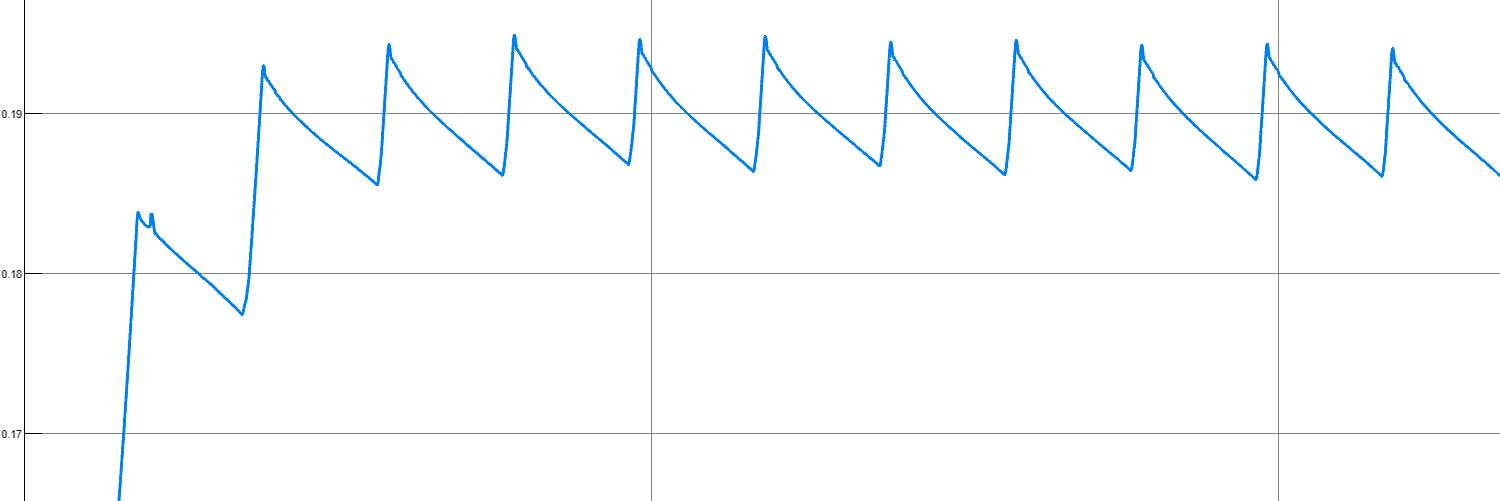
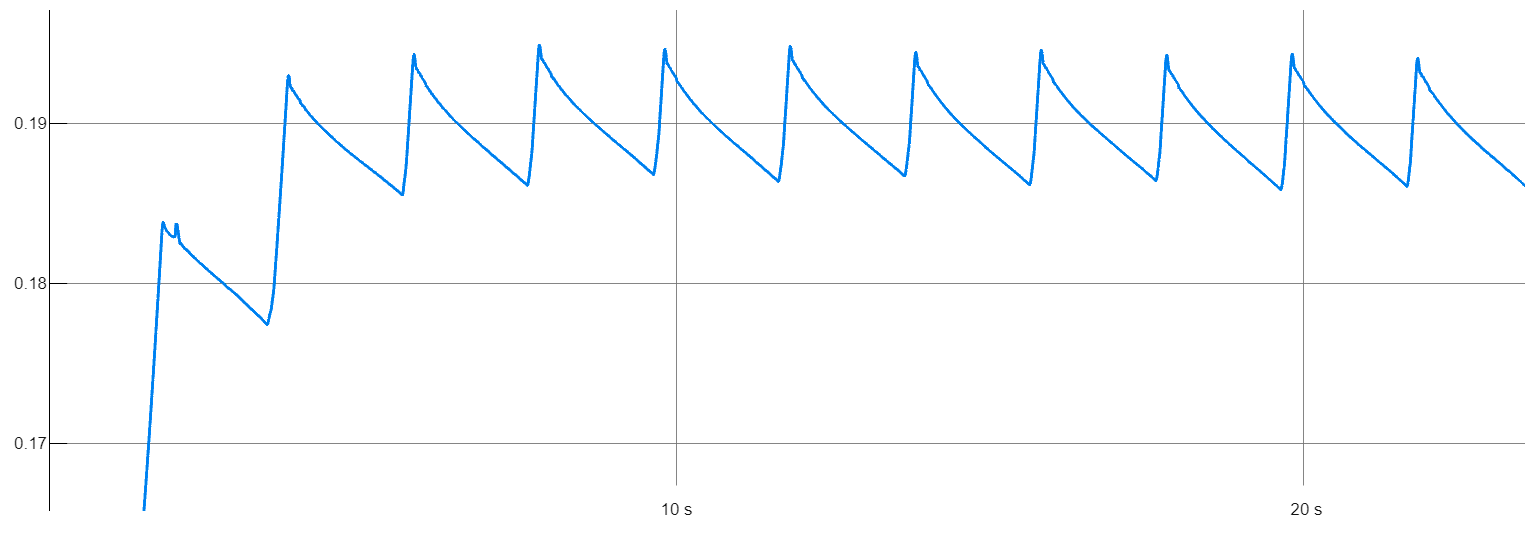
Increased font size of thorax height graphs

diff --git a/documents/chapter/results.tex b/documents/chapter/results.tex
@@ -48,7 +48,7 @@ The resulting simulations of the robot walking in tetrapod and wave gait can be 
 
 The decision to implement our own, custom analytical IK solver resulted in a significant performance boost.
 Comparing the MK1 and MK2 controllers, we are able to achieve an up to 10x speed up in simulation time.
-\todo{Prove with a comparison of MK1 and MK2 simulation time}
+\todo{Prove with a comparison of MK1 and MK2 simulation time, run MK1 and MK2 on desktop}
 
 With the final non-RL controller design, termed \textit{MK3}, we improved the stability of the hexapods locomotion as well as introduced the capability for omnidirectional movement.
 By simply re-tuning the PID controller parameter to the values displayed in \ref{table: PID parameters}, we were able to reduce the jerking behaviour of the robot far enough to not be visually noticeable.
@@ -74,14 +74,17 @@ A comparison of the thorax's height differences during movement, when under cont
 	\label{figure: Thorax height graphs}
 \end{figure}
 
+The final MK3 locomotion controller is able to control the hexapod model in tripod, tetrapod as well as wave gait.
+The swing-stance cycle frequency ($f_c$) and the duty cycle percentage ($P_\text{swing}$) can be changed, even dynamically during simulation.
+An demontration of the hexapod model walking in tripod gait with varying cycle frequency is provided in \ref{}.
+The controller starts with an $f_c$ of 0.2 Hz, increasing over 20 seconds linearly to 2 Hz, then decreasing back to 0.2 Hz.
 
 
-\todo{major rewrite and update}
+
 \section{Evaluation: RL training}
-In this section, we present the result obtained during training RL agents on the problem of leg coordination.
-We begin with an evaluation of the overall process, after which we separately present the training results of the DDPG an PPO agents.
+\todo{major rewrite and update}
 
-Implementing a RL agent yielding satisfying results proved to be more difficult than anticipated.
+Implementing a RL agent that yields satisfying results proved to be more difficult than anticipated.
 As there exists a large set of parameter to be considered during setup, finding a set of well-working parameters is a time-consuming task.
 This is reinforced by the fact that, to observe the performance of a set of parameters, we found the agent needed to train for at least 1-2k episodes, equating to several hours of runtime given the hardware used.
 Additionally, as we ran experiments with two different RL algorithms, we were required to tune two separate sets of parameters.
